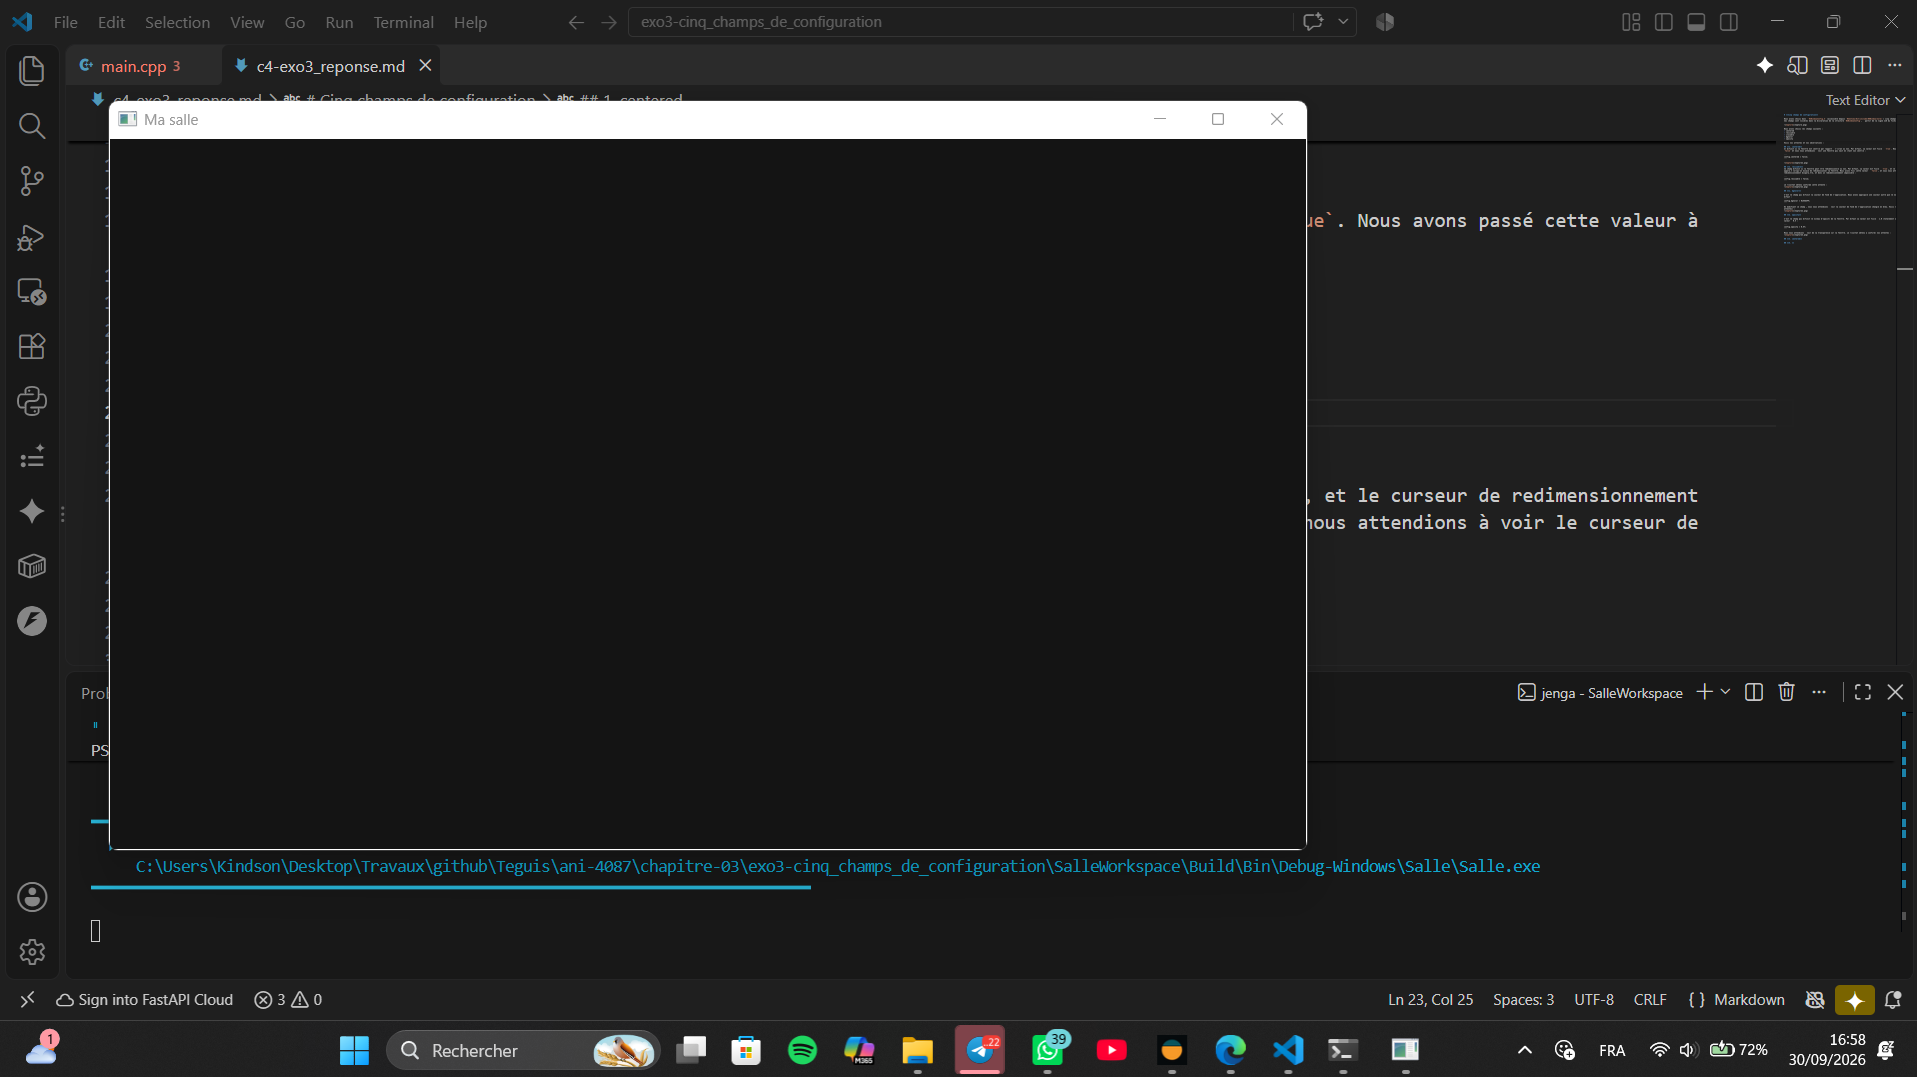
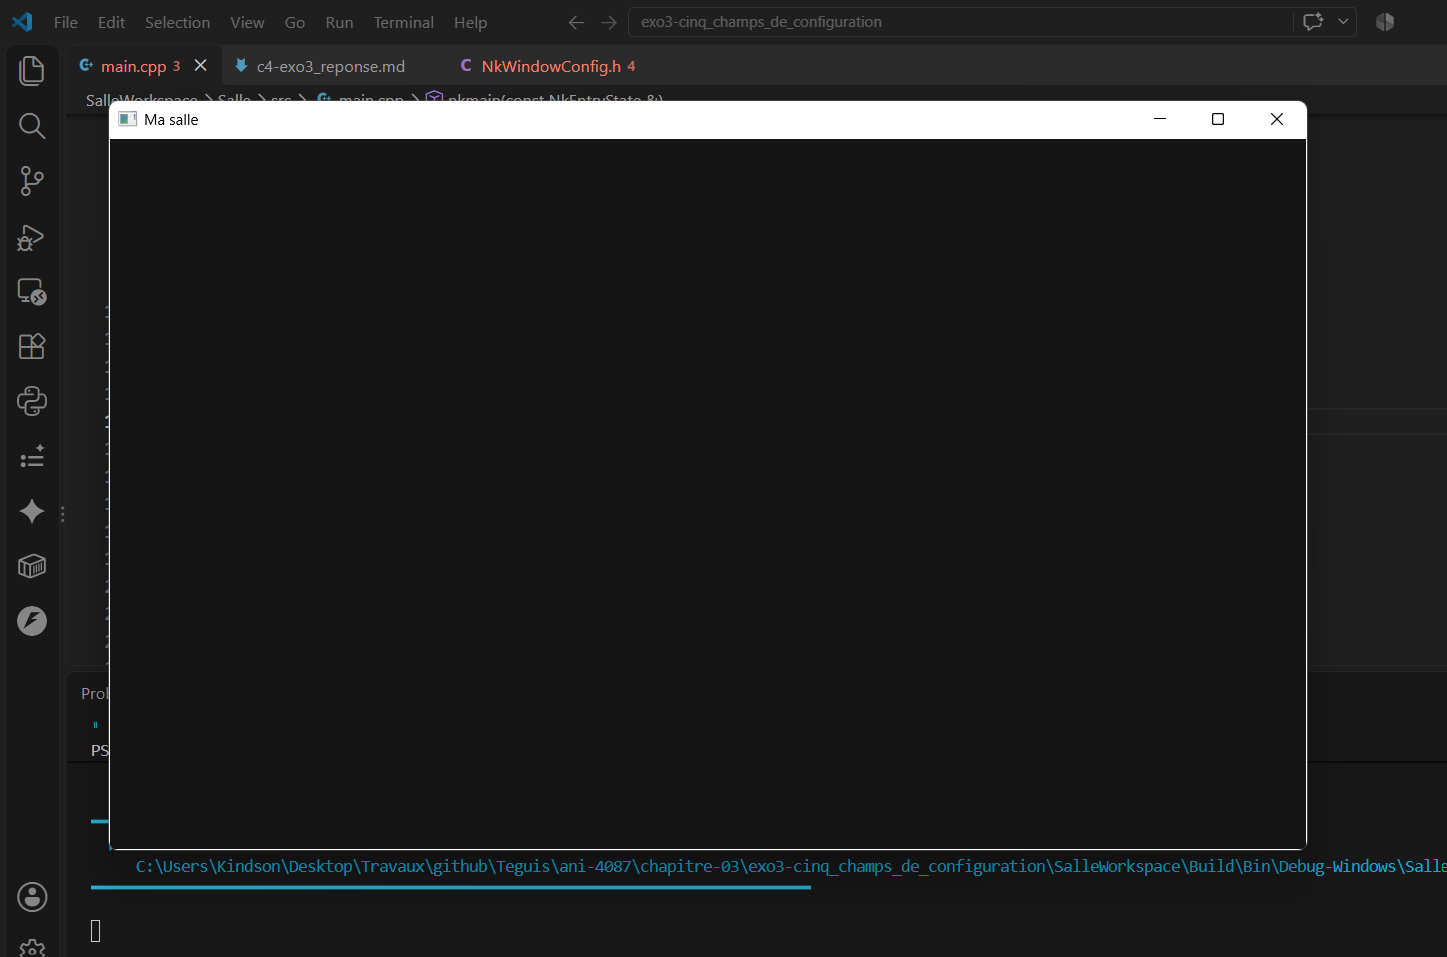
C4 Exo 3

diff --git a/chapitre-03/exo3-cinq_champs_de_configuration/SalleWorkspace/Salle/src/main.cpp b/chapitre-03/exo3-cinq_champs_de_configuration/SalleWorkspace/Salle/src/main.cpp
@@ -11,10 +11,10 @@ int nkmain(const NkEntryState& state) {
 
     // Champs modifiés
     config.centered = false;
-    config.closable = false;
-    config.hasShadow = false;
-    config.bgColor = 0x54A3FF;
-    config.opacity = 0.5f;
+    //config.closable = false;
+    //config.hasShadow = false;
+    //config.bgColor = 0x54A3FF;
+    //config.opacity = 0.5f;
 
     NkWindow fenetre(config);
     if (!fenetre.IsValid()) {

diff --git a/chapitre-03/exo3-cinq_champs_de_configuration/c4-exo3_reponse.md b/chapitre-03/exo3-cinq_champs_de_configuration/c4-exo3_reponse.md
@@ -31,7 +31,7 @@ Ce champ définit si la fenêtre peut être fermée via le bouton de fermeture (
 config.closable = false;
 ```
 
-Le résultat obtenu confirme cette attente : le bouton de fermeture a bien été masqué.
+Le résultat obtenu confirme cette attente : le bouton de fermeture a bien été masqué (vous remarquerez le changement par rapport à la capture précédente).
 
 ![Capture](Capture3.png)
 
